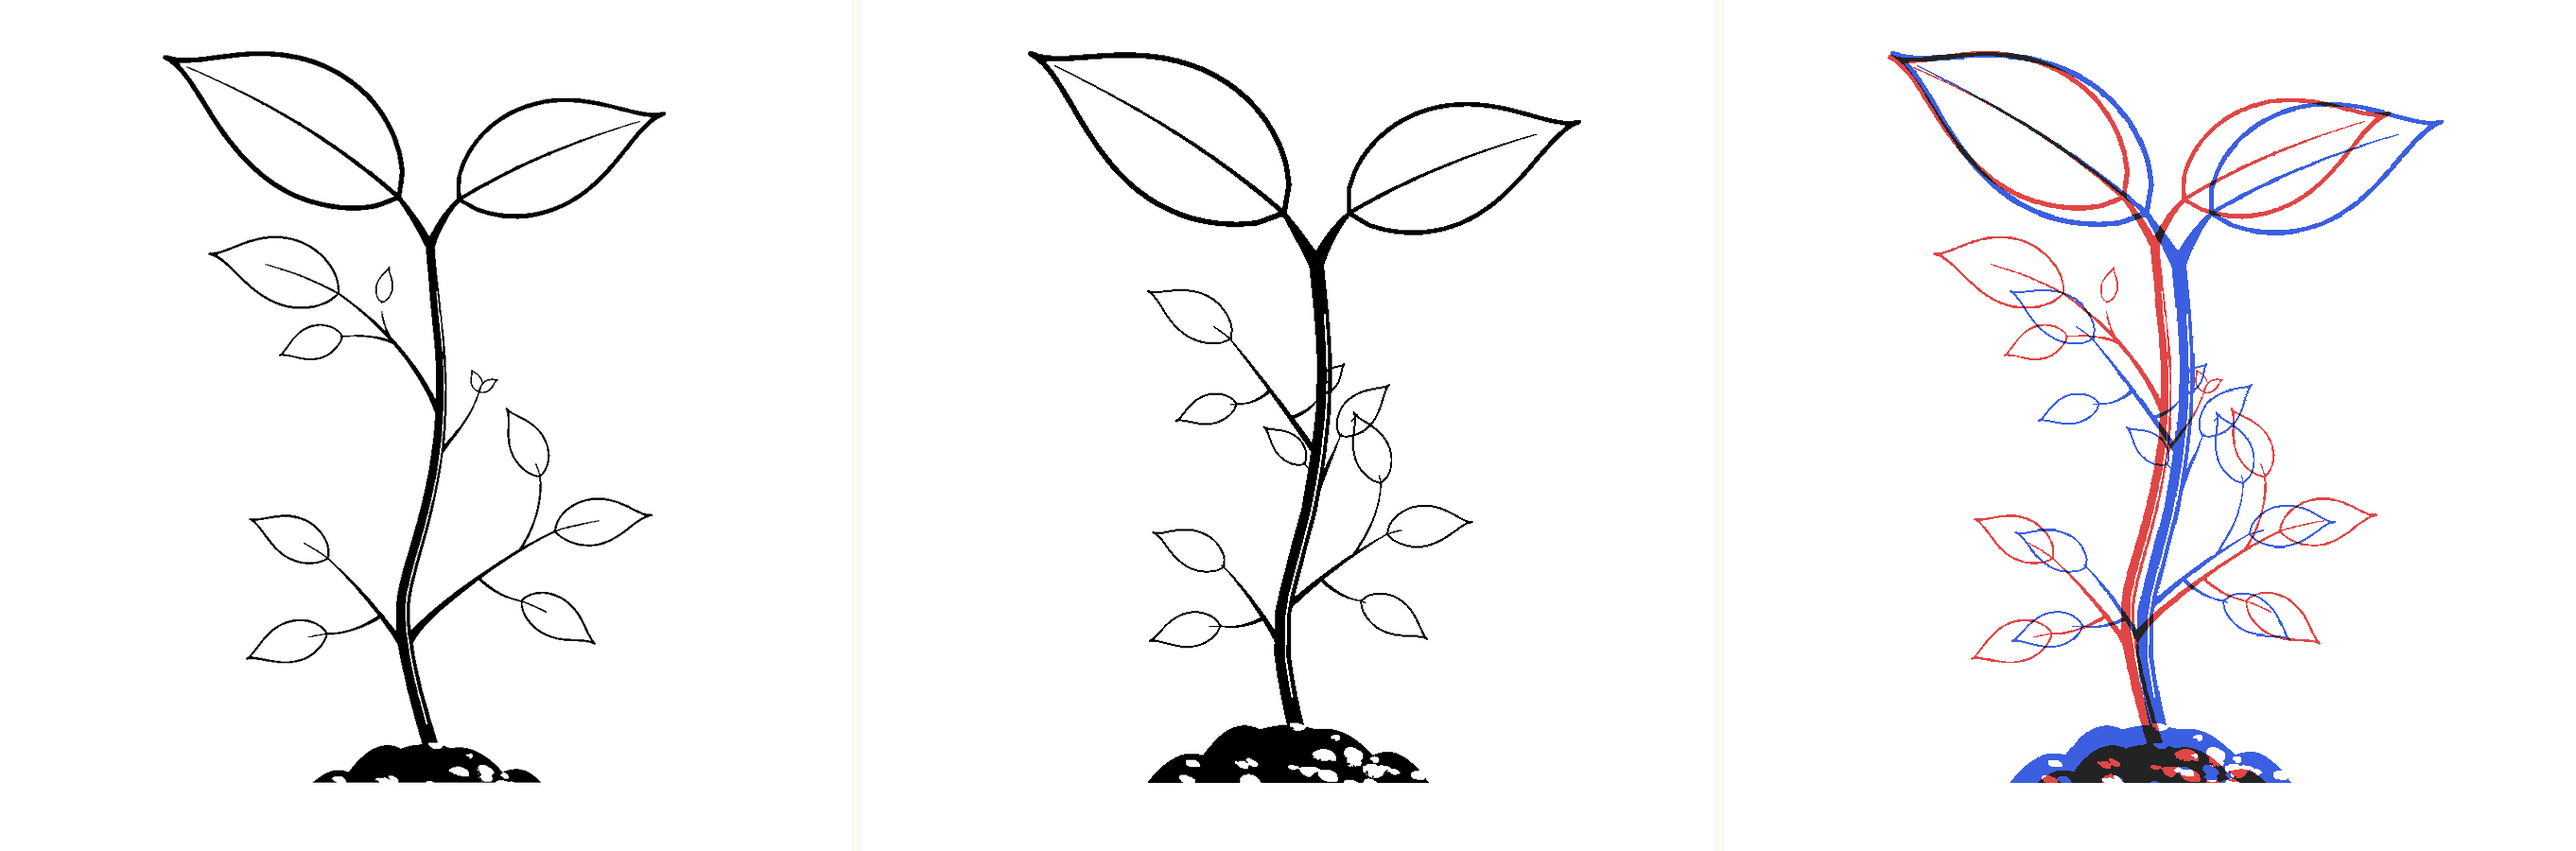
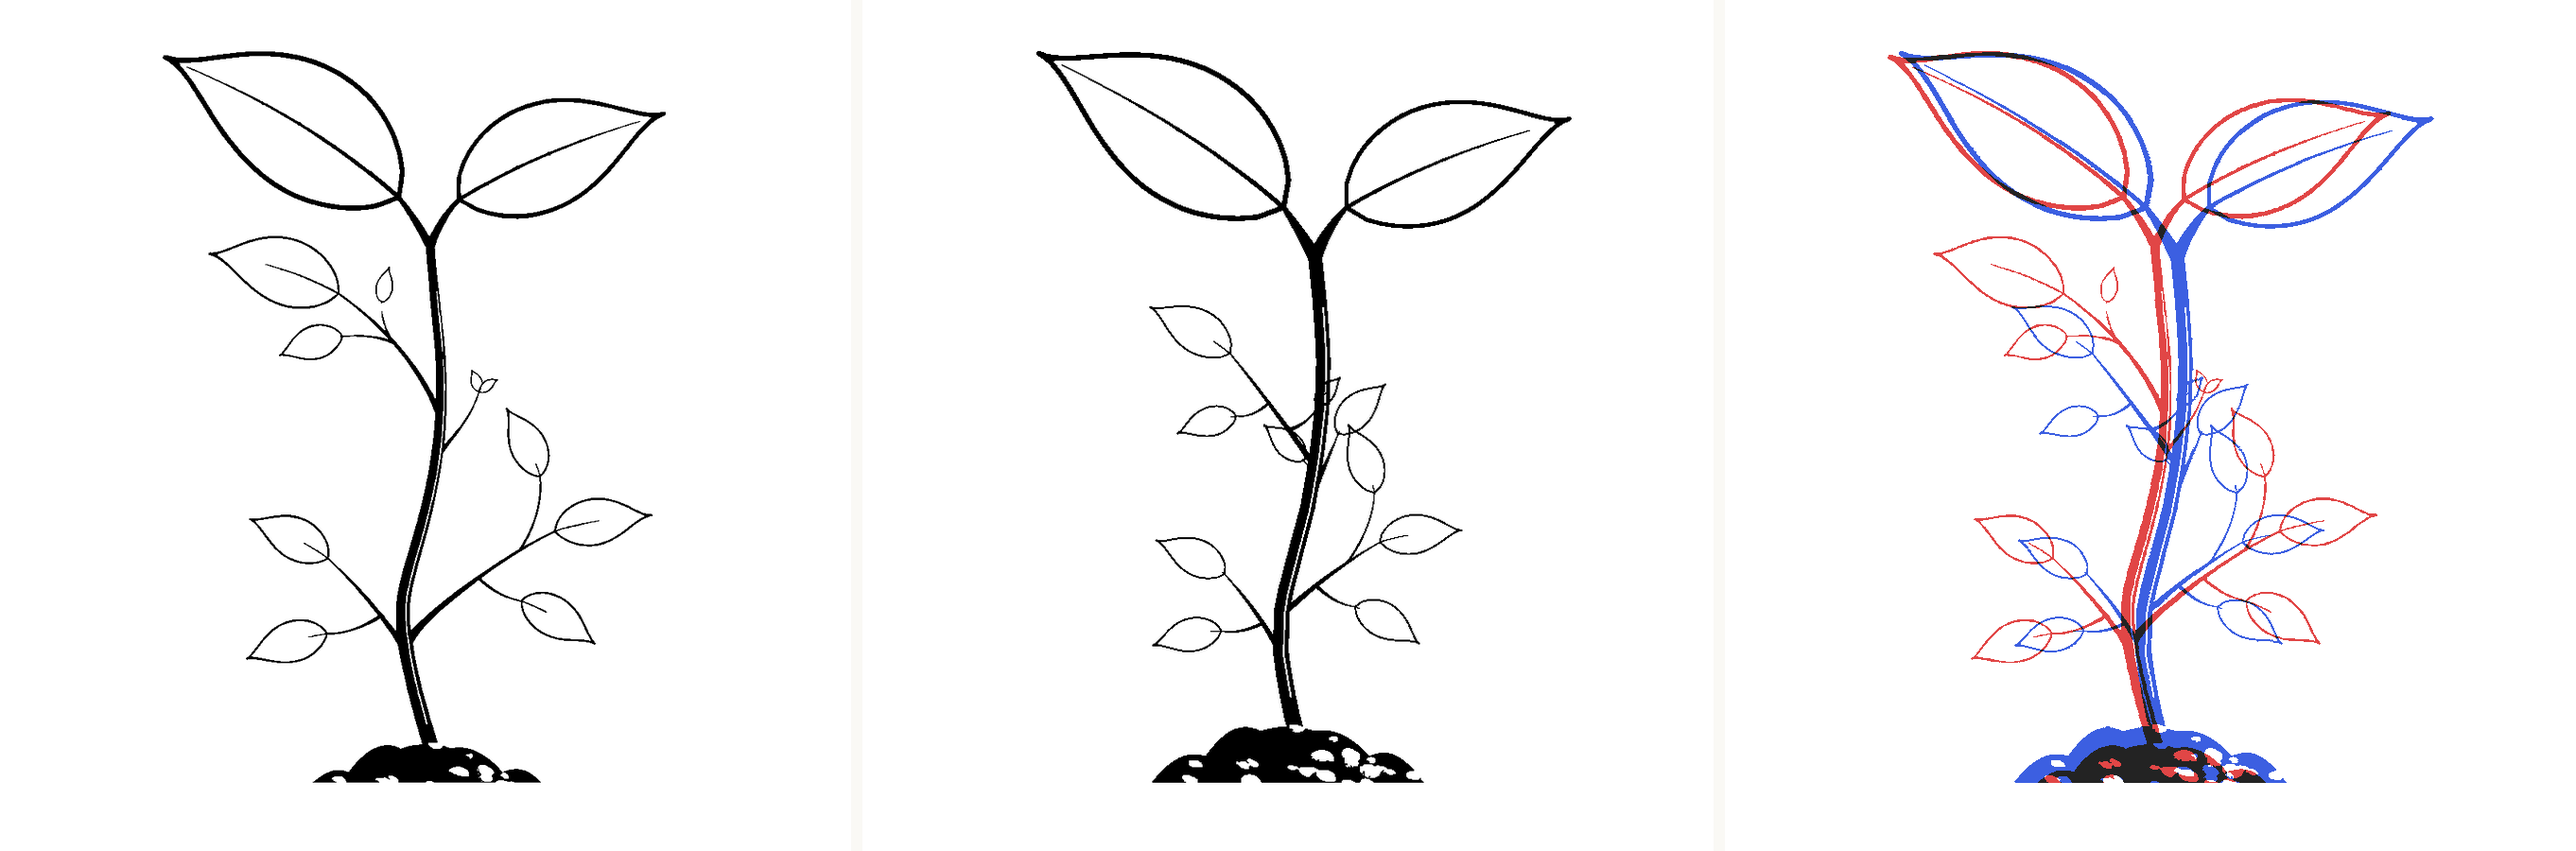
Lift the canopy's bifurcation and lengthen the stem beneath it
The fork sat too low and the bare stretch between the topmost branch and
it was too short. Raising the fork fixes both at once: shoots are anchored
to a height rather than to a share of the stem, so as the stem lengthens
past them they all drop away from the fork rather than riding up with it.

0.182 to 0.155, judged against the reference rather than computed. Worth
being straight about that: three separate attempts to measure the gap
came back unusable — the attachment detector found only the cotyledons,
whose petioles are the only things touching the stem in the vector trace;
the run-counting one reported the same 0.008 for both plants because it
was finding cotyledon blades either side of the stem rather than a
branch. The eye on the overlay was right and the instruments were not.

Stage 3 differs by 3 pixels of 62,408. forkHeights[4] is only reached
above stage 3 — at extended 3 the interpolation weight on it is zero — but
that is the same reasoning that was wrong twice today, so it is checked
rather than argued.

diff --git a/Written/Views/Tree/SeedlingArt.swift b/Written/Views/Tree/SeedlingArt.swift
@@ -51,7 +51,13 @@ enum SeedlingArt {
     /// height above its own foot. Against ours at 0.705 that is 0.182, where the
     /// previous step landed at 0.667 of the same measure. The plant grows by
     /// getting taller before it gets wider, and this is the largest step yet.
-    static let forkHeights: [CGFloat] = [0.433, 0.380, 0.335, 0.235, 0.182]
+    ///
+    /// Raised again from 0.182, by eye against the reference rather than by
+    /// arithmetic: the bifurcation sat too low and the bare stem under it was
+    /// too short. Raising it does both at once — the fork lifts, and because
+    /// shoots are anchored to a height rather than a share of the stem, they all
+    /// drop away from it as the stem lengthens past them.
+    static let forkHeights: [CGFloat] = [0.433, 0.380, 0.335, 0.235, 0.155]
 
     /// The fork partway through that climb. Everything above it — petioles,
     /// blades, every shoot's attachment point — is placed off this, so they all
